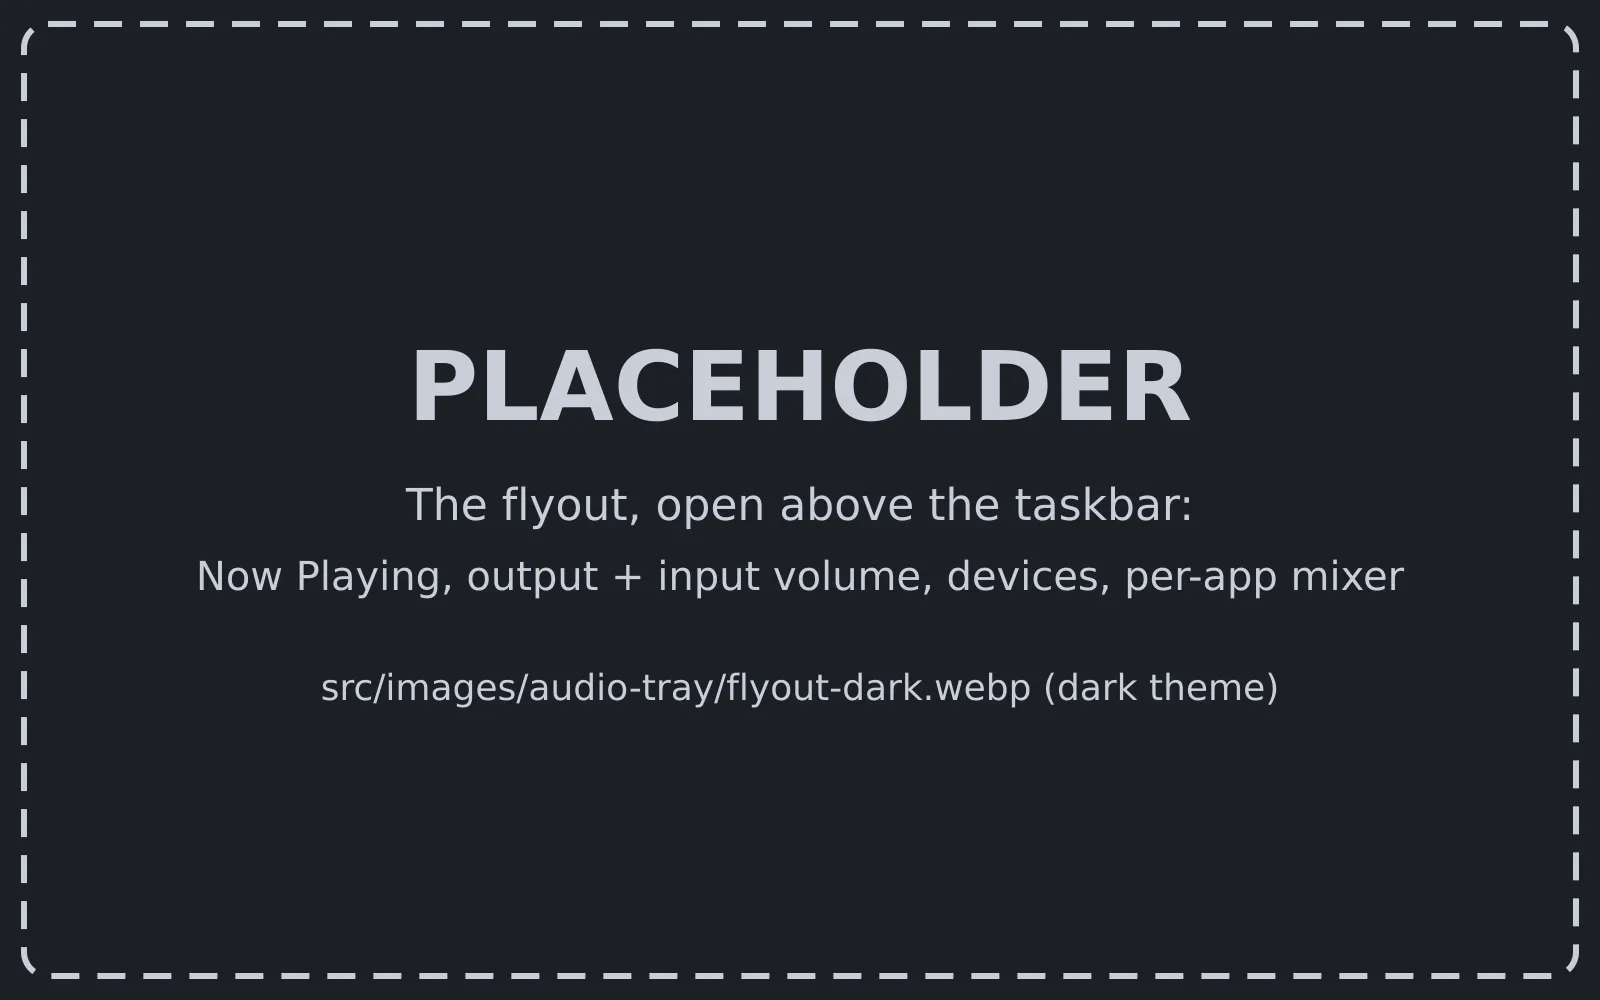
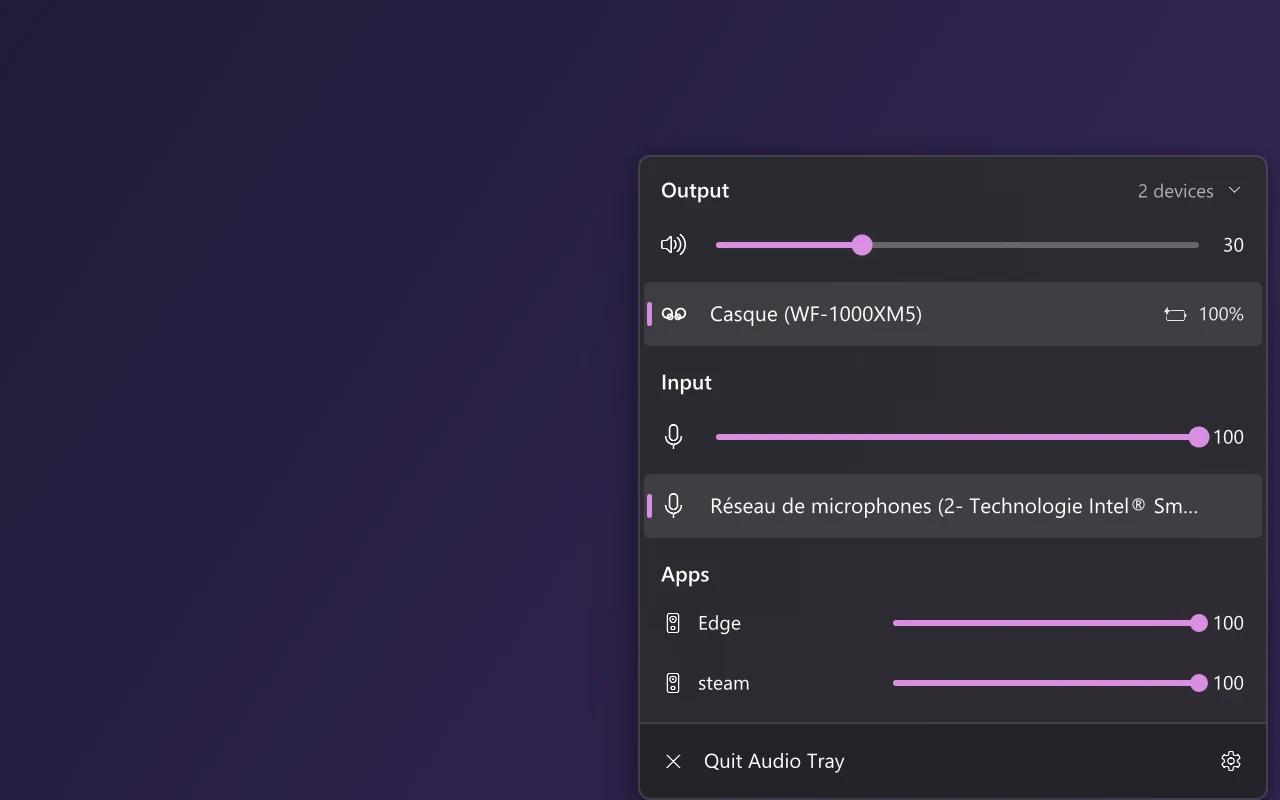
✨ Show audio-tray as it is, at v0.14.0
- The three placeholder pairs are now the app itself: the flyout, the edge pill
  opened, and the Settings window's display map, each in a dark and a light
  version. Staged on a plain backdrop, with invented songs and generated covers.
- Their descriptions say what the shots show.
- Synced at v0.14.0, the first release that carries the logo.

diff --git a/README.md b/README.md
@@ -177,10 +177,12 @@ not run on.
 
 `/audio-tray` is the second one, Windows only: one button, and a note for a Mac
 or Linux reader instead of a second. Its logo is `assets/logo/audio-tray.svg`
-in its repository, synced at the release tag like media-cast's icon, so a sync
-fails for it (and `--keep-going` keeps the committed snapshot) until a release
-carries that file. Its screenshots in `src/images/audio-tray/` are still
-**placeholders**: grey cards naming the shot to take.
+in its repository, synced at the release tag like media-cast's icon (v0.14.0 is
+the first release that carries it). Its screenshots in `src/images/audio-tray/`
+are the app staged on a plain backdrop, with invented songs and generated covers:
+nothing anyone published. Retake them with the app's dev build
+(`--pill-preview left center 14 shots`, `--flyout`, and `--settings-preview pill`
+with `AUDIO_TRAY_THEME=light|dark`).
 
 The screenshots are the app itself, in `src/images/media-cast/`, one copy per
 theme (`ready-light.webp`, `ready-dark.webp`…). The page shows the one matching
